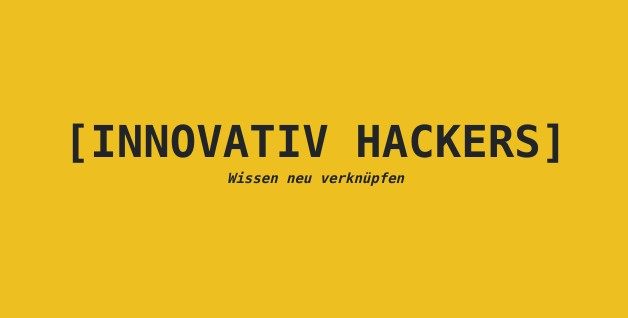
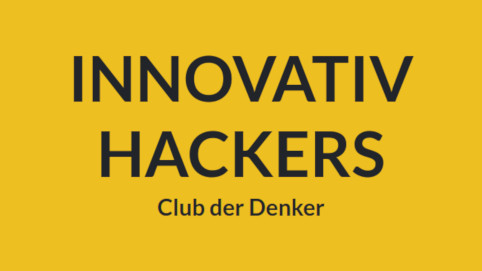
Club der Denker

Changed region(s): [[0.0934, 0.2066, 0.9025, 0.679], [0.3112, 0.7085, 0.6846, 0.797]]

diff --git a/public/kontakt/template.html b/public/kontakt/template.html
@@ -10,7 +10,7 @@
     <link rel="icon" href="https://innovativ-hackers.org/favicon.ico" type="image/x-icon">
 
 
-    <title>INNOVATIV HACKERS | think outside the box</title>
+    <title>INNOVATIV HACKERS | Club der Denker</title>
 
 
     <!-- Bootstrap core CSS -->

diff --git a/resources/views/de/index.blade.php b/resources/views/de/index.blade.php
@@ -6,19 +6,19 @@
 
   <meta charset="utf-8">
   <meta name="viewport" content="width=device-width, initial-scale=1, shrink-to-fit=no">
-  <meta name="description" content="INNOVATIV HACKERS | think outside the box">
+  <meta name="description" content="INNOVATIV HACKERS | Club der Denker">
   <meta name="author" content="">
-  <title>INNOVATIV HACKERS | think outside the box</title>
+  <title>INNOVATIV HACKERS | Club der Denker</title>
   <link rel="icon" href="https://innovativ-hackers.org/favicon.ico" type="image/x-icon">
 
-  <meta name="image" content="https://innovativ-hackers.org/share.jpg" alt="INNOVATIV HACKERS | think outside the box">
-  <meta property="og:title" content="INNOVATIV HACKERS | think outside the box" />
+  <meta name="image" content="https://innovativ-hackers.org/share.jpg" alt="INNOVATIV HACKERS | Club der Denker">
+  <meta property="og:title" content="INNOVATIV HACKERS | Club der Denker" />
   <meta property="og:type" content="website" />
   <meta property="og:url" content="https://innovativ-hackers.org/de" />
   <meta property="og:image" content="https://innovativ-hackers.org/share.jpg" />
-  <meta property="og:image:alt" content="INNOVATIV HACKERS | think outside the box" />
-  <meta property="og:description" content="INNOVATIV HACKERS | think outside the box" />
-  <meta property="og:site_name" content="INNOVATIV HACKERS | think outside the box" />
+  <meta property="og:image:alt" content="INNOVATIV HACKERS | Club der Denker" />
+  <meta property="og:description" content="INNOVATIV HACKERS | Club der Denker" />
+  <meta property="og:site_name" content="INNOVATIV HACKERS | Club der Denker" />
 
 
 
@@ -120,9 +120,9 @@ a:hover, a:focus, a:active {
 <!-- Header -->
 <header class="masthead d-flex "  >
     <div class="container text-center my-auto">
-        <br><h1 class="mb-1">[INNOVATIV HACKERS]</h1>
+        <br><h1 class="mb-1 text-center">INNOVATIV HACKERS</h1>
         <h3 class="mb-5">
-            <strong>think outside the box
+            <strong>Club der Denker
             </strong>
 
         </h3>

diff --git a/resources/views/de/why.blade.php b/resources/views/de/why.blade.php
@@ -6,9 +6,9 @@
   <meta charset="utf-8">
   <meta name="robots" content="noindex,nofollow" />
   <meta name="viewport" content="width=device-width, initial-scale=1, shrink-to-fit=no">
-  <meta name="description" content="INNOVATIV HACKERS | think outside the box">
+  <meta name="description" content="INNOVATIV HACKERS | Club der Denker">
   <meta name="author" content="">
-  <title>INNOVATIV HACKERS | think outside the box</title>
+  <title>INNOVATIV HACKERS | Club der Denker</title>
   <link rel="icon" href="https://innovativ-hackers.org/favicon.ico" type="image/x-icon">
 
 @include('de.css')

diff --git a/resources/views/de/member.blade.php b/resources/views/de/member.blade.php
@@ -1,4 +1,4 @@
-@include('snippet.header', ['title' => 'INNOVATIV HACKERS | think outside the box'])
+@include('snippet.header', ['title' => 'INNOVATIV HACKERS | Club der Denker'])
 
 @include('de.nav')
 

diff --git a/resources/views/layouts/app.blade.php b/resources/views/layouts/app.blade.php
@@ -1,4 +1,4 @@
-@include('snippet.header', ['title' => 'INNOVATIV HACKERS | think outside the box'])
+@include('snippet.header', ['title' => 'INNOVATIV HACKERS | Club der Denker'])
 
 @include('de.nav')
 
